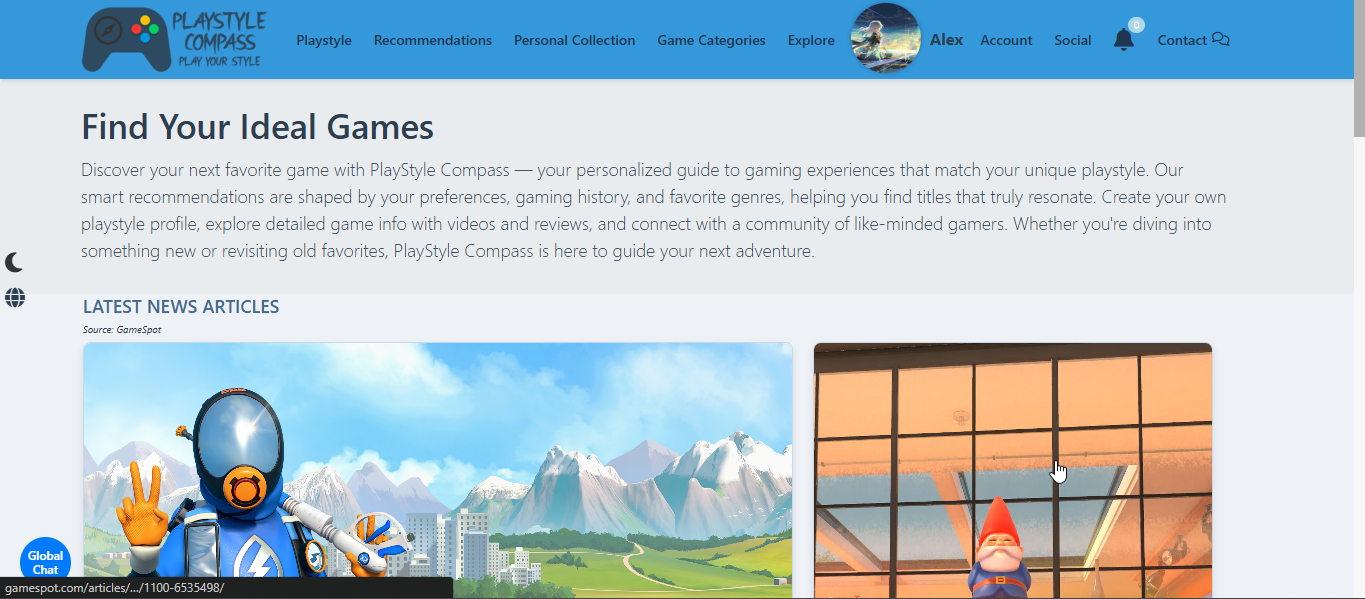
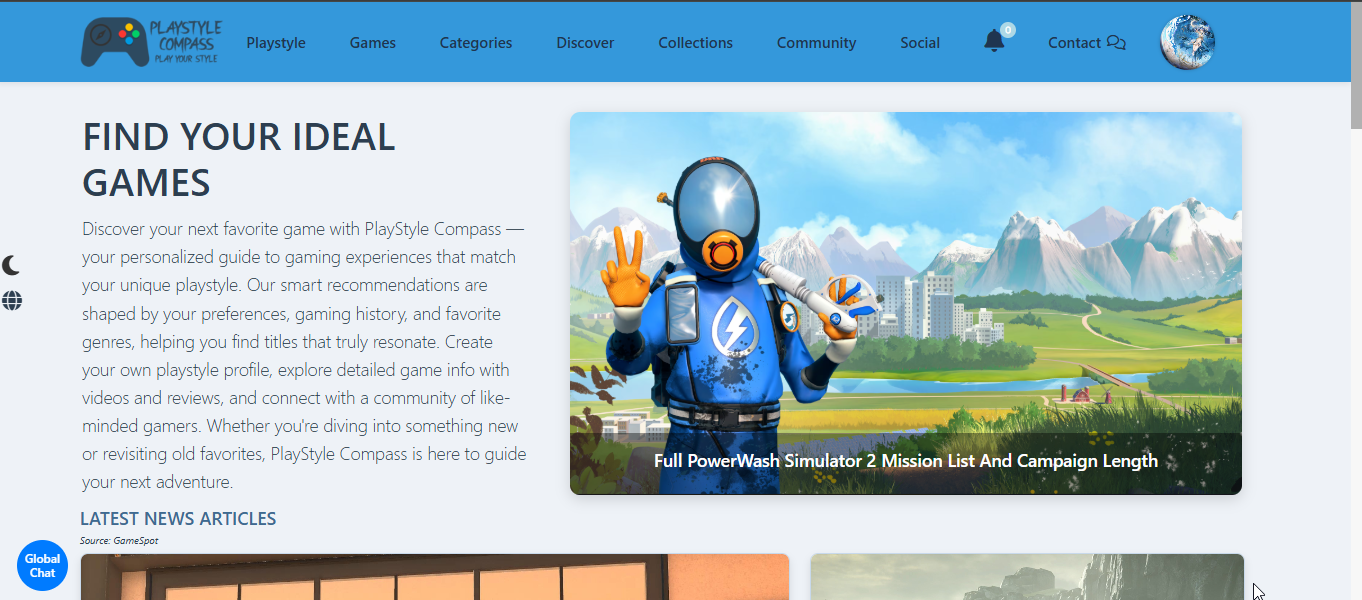
Upadted README file, updated home image for project preview.

diff --git a/README.MD b/README.MD
@@ -144,6 +144,11 @@ Websites for .env configuration: [GiantBomb](https://www.giantbomb.com/) / [Send
 <details>
 <summary><h2>PlayStyle Compass Changelog</h2></summary>
 
+### Version v2.6:
+* Updated Index page with a redesigned header and news layout.
+* Refined navbar structure and styling.
+* Introduced SCSS for easier and cleaner style management.
+
 ### Version v2.5:
 * Tested helper functions for the 'users' & 'playstyle_compass' apps.
 * Completed testing for the 'users' app views.
